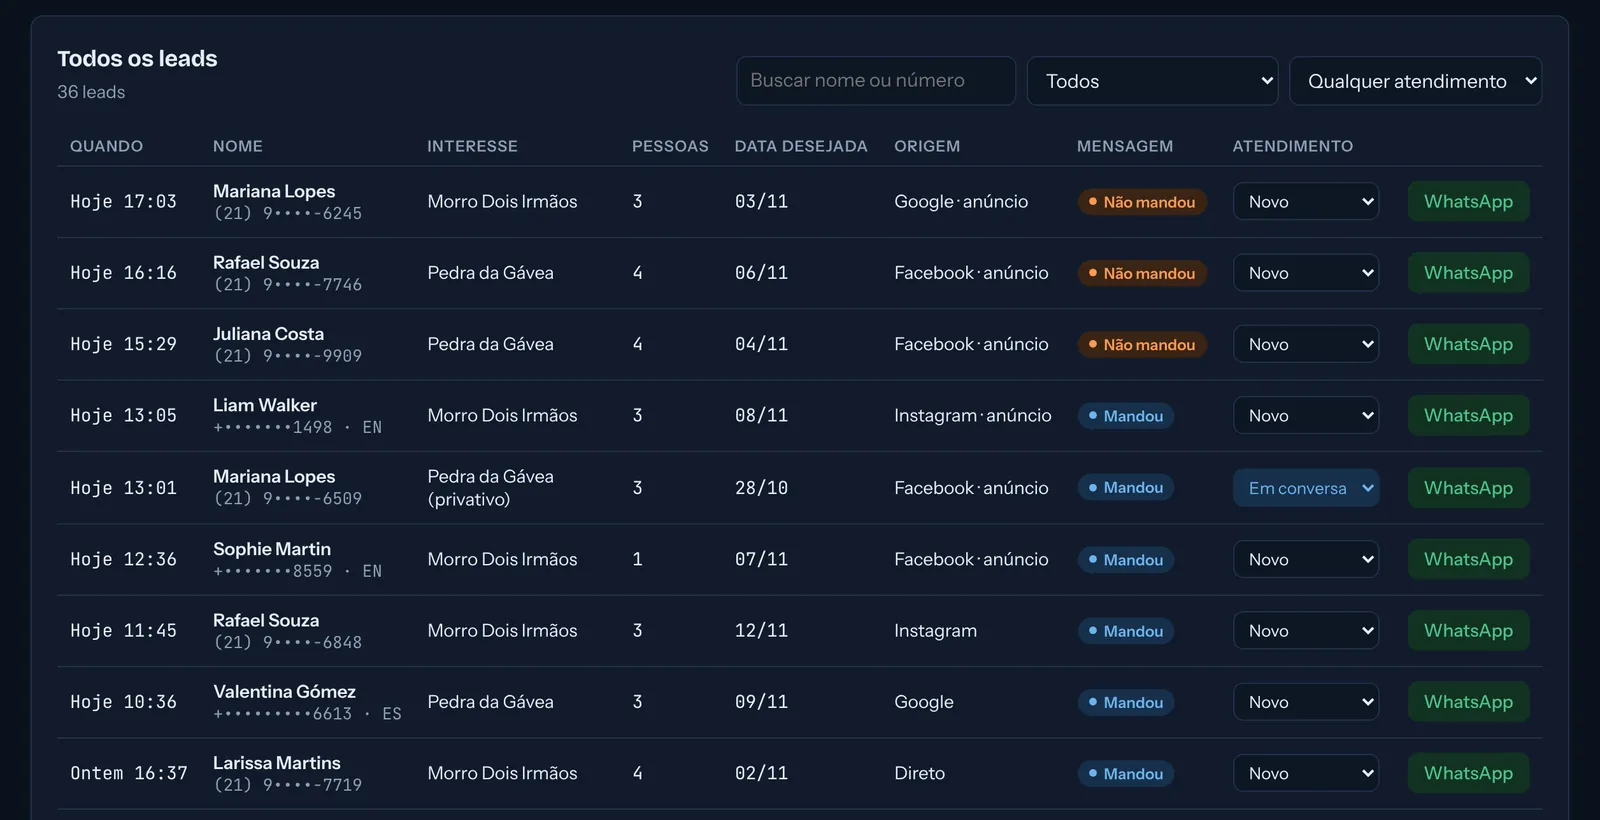
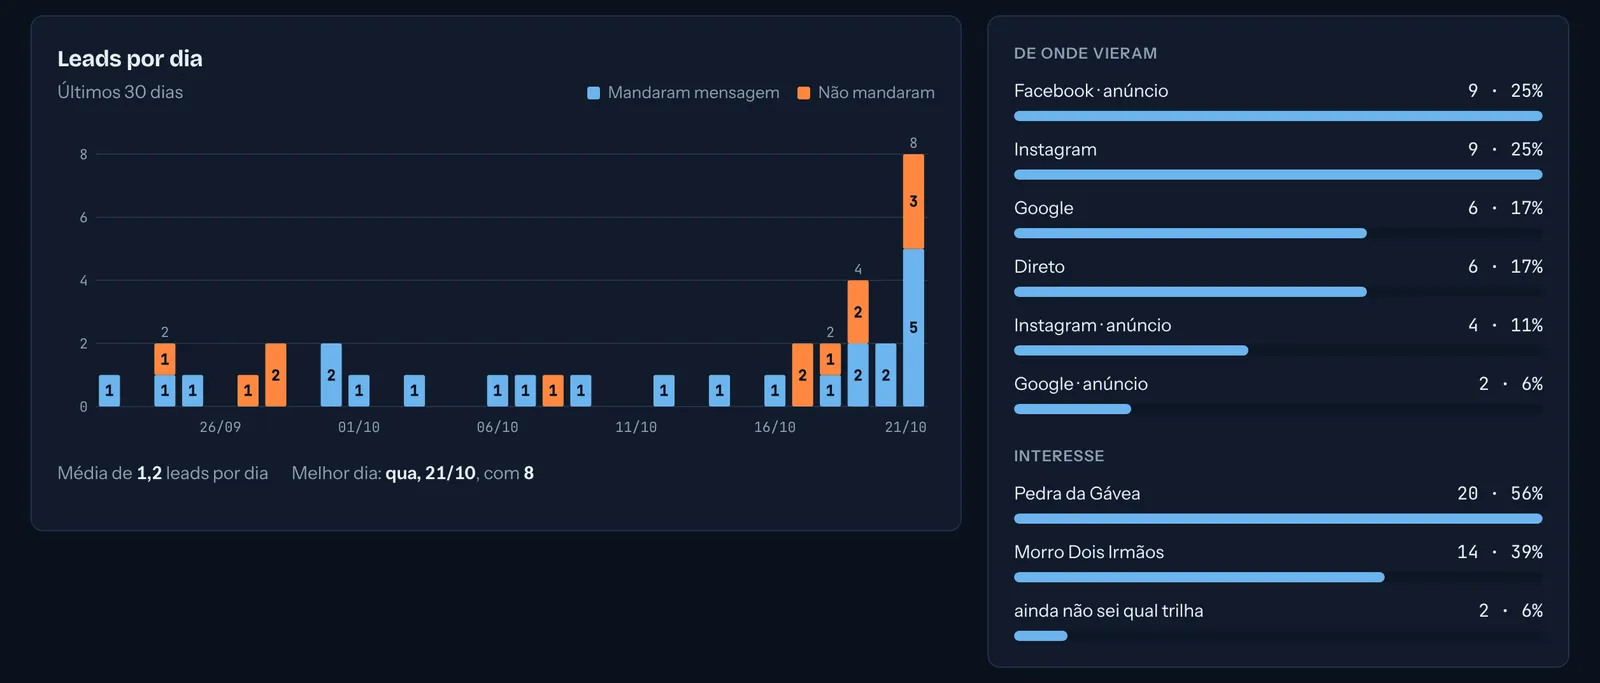
LP: abas do painel trocam sozinhas com barra de progresso, prints de celular; painel: cartões de lead no celular
Claude-Session: https://claude.ai/code/session_01Tz1DYrWsXn1YRVjuSTogv9

diff --git a/index.html b/index.html
@@ -310,12 +310,28 @@ p{margin:0}
 .dash-bar i{width:10px;height:10px;border-radius:50%;background:var(--bg-3)}
 .dash-bar span{margin-left:10px;font-family:var(--f-mono);font-size:12px;color:var(--muted)}
 .dash-frame img{display:block;width:100%;height:auto}
-.dash-tabs{display:flex;gap:4px;padding:8px;border-bottom:1px solid var(--line);overflow-x:auto;scrollbar-width:none}
-.dash-tabs::-webkit-scrollbar{display:none}
-.dash-tabs button{flex:none;font:inherit;font-size:14px;color:var(--muted);background:none;border:0;border-radius:8px;padding:8px 14px;cursor:pointer;white-space:nowrap}
-.dash-tabs button:hover{color:var(--fg)}
-.dash-tabs button[aria-selected="true"]{background:var(--bg-3);color:var(--fg);font-weight:600}
-.dash-frame [role="tabpanel"][hidden]{display:none}
+.dash-tabs{display:grid;grid-template-columns:repeat(3,minmax(0,1fr));gap:6px;padding:8px;border-bottom:1px solid var(--line)}
+.dash-tabs button{position:relative;display:flex;align-items:center;gap:10px;font:inherit;font-size:14.5px;color:var(--muted);background:transparent;border:1px solid var(--line);border-radius:10px;padding:10px 14px 13px;cursor:pointer;text-align:left;overflow:hidden;transition:color .2s,background .2s,border-color .2s}
+.dash-tabs button:hover{color:var(--fg);border-color:var(--muted)}
+.dash-tabs button[aria-selected="true"]{background:var(--bg-3);color:var(--fg);font-weight:600;border-color:var(--violet)}
+.dt-n{flex:none;width:22px;height:22px;border-radius:50%;display:grid;place-items:center;font-family:var(--f-mono);font-size:12px;background:var(--bg);border:1px solid var(--line)}
+.dash-tabs button[aria-selected="true"] .dt-n{background:var(--violet);color:var(--bg);border-color:var(--violet)}
+.dt-bar{position:absolute;left:0;right:0;bottom:0;height:3px;background:transparent}
+.dt-bar i{display:block;height:100%;width:0;background:var(--violet)}
+.dash-tabs button[aria-selected="true"] .dt-bar i{width:100%}
+.dash-frame.auto .dash-tabs button[aria-selected="true"] .dt-bar i{width:0;animation:dtfill var(--dt-time,6s) linear forwards}
+.dash-frame.auto.paused .dash-tabs button[aria-selected="true"] .dt-bar i{animation-play-state:paused}
+@keyframes dtfill{to{width:100%}}
+.dash-stage{position:relative;aspect-ratio:1600/820;background:var(--bg)}
+.dash-panel{position:absolute;inset:0;opacity:0;visibility:hidden;transform:scale(.985);transition:opacity .5s ease,transform .6s cubic-bezier(.2,.8,.2,1),visibility 0s linear .5s}
+.dash-panel.on{opacity:1;visibility:visible;transform:none;transition:opacity .5s ease,transform .6s cubic-bezier(.2,.8,.2,1),visibility 0s}
+.dash-panel img{width:100%;height:auto}
+@media (max-width:640px){
+  .dash-stage{aspect-ratio:700/1515}
+  .dash-tabs{grid-template-columns:1fr 1fr 1fr;gap:4px;padding:6px}
+  .dash-tabs button{flex-direction:column;align-items:center;text-align:center;gap:6px;font-size:12px;padding:8px 4px 11px;line-height:1.2}
+}
+@media (prefers-reduced-motion:reduce){.dash-panel,.dash-panel.on{transition:none;transform:none}}
 
 .dash-shot figcaption{font-family:var(--f-mono);font-size:12px;color:var(--muted)}
 .dash-points{list-style:none;margin:0;padding:0;display:grid;grid-template-columns:repeat(3,minmax(0,1fr));gap:20px 32px}
@@ -747,22 +763,17 @@ html.locked,html.locked body{overflow:hidden}
       <figure class="dash-shot" data-reveal>
         <div class="dash-frame">
           <div class="dash-bar" aria-hidden="true"><i></i><i></i><i></i><span>linxio.com.br/painel</span></div>
-          <div class="dash-tabs" role="tablist" aria-label="Telas do painel">
-            <button type="button" role="tab" id="dt-1" aria-controls="dp-1" aria-selected="true">Quem chamar agora</button>
-            <button type="button" role="tab" id="dt-2" aria-controls="dp-2" aria-selected="false" tabindex="-1">Números e origem</button>
-            <button type="button" role="tab" id="dt-3" aria-controls="dp-3" aria-selected="false" tabindex="-1">Todos os leads</button>
-          </div>
-          <div role="tabpanel" id="dp-1" aria-labelledby="dt-1">
-            <picture>
-              <source media="(max-width:640px)" srcset="/img/foto-02.webp">
-              <img src="/img/foto-03.webp" width="1600" height="731" loading="lazy" alt="Painel com o total de leads do período, quem mandou e quem não mandou mensagem, reservas fechadas e a lista de quem chamar agora no WhatsApp">
-            </picture>
-          </div>
-          <div role="tabpanel" id="dp-2" aria-labelledby="dt-2" hidden>
-            <img src="/img/foto-04.webp" width="1600" height="683" loading="lazy" alt="Gráfico de leads por dia com o total escrito em cada barra, e listas de onde vieram os contatos e do interesse de cada um">
-          </div>
-          <div role="tabpanel" id="dp-3" aria-labelledby="dt-3" hidden>
-            <img src="/img/foto-05.webp" width="1600" height="820" loading="lazy" alt="Tabela com todos os leads: quando chegou, nome, interesse, data desejada, origem, se mandou mensagem e o status do atendimento">
+          <div class="dash-tabs" role="tablist" aria-label="Telas do painel"><button type="button" role="tab" id="dt-1" aria-controls="dp-1" aria-selected="true"><span class="dt-n">1</span>Quem chamar agora<span class="dt-bar" aria-hidden="true"><i></i></span></button><button type="button" role="tab" id="dt-2" aria-controls="dp-2" aria-selected="false" tabindex="-1"><span class="dt-n">2</span>Números e origem<span class="dt-bar" aria-hidden="true"><i></i></span></button><button type="button" role="tab" id="dt-3" aria-controls="dp-3" aria-selected="false" tabindex="-1"><span class="dt-n">3</span>Todos os leads<span class="dt-bar" aria-hidden="true"><i></i></span></button></div>
+          <div class="dash-stage">
+            <div class="dash-panel on" role="tabpanel" id="dp-1" aria-labelledby="dt-1">
+              <picture><source media="(max-width:640px)" srcset="/img/foto-02.webp"><img src="/img/foto-03.webp" width="1600" height="731" loading="lazy" alt="Painel com o total de leads do período, quem mandou e quem não mandou mensagem, reservas fechadas e a lista de quem chamar agora no WhatsApp"></picture>
+            </div>
+            <div class="dash-panel" role="tabpanel" id="dp-2" aria-labelledby="dt-2" aria-hidden="true">
+              <picture><source media="(max-width:640px)" srcset="/img/foto-04.webp"><img src="/img/foto-05.webp" width="1600" height="683" loading="lazy" alt="Gráfico de leads por dia com a quantidade escrita em cada barra, e listas de onde vieram os contatos e do interesse de cada um"></picture>
+            </div>
+            <div class="dash-panel" role="tabpanel" id="dp-3" aria-labelledby="dt-3" aria-hidden="true">
+              <picture><source media="(max-width:640px)" srcset="/img/foto-06.webp"><img src="/img/foto-07.webp" width="1600" height="820" loading="lazy" alt="Lista de todos os leads com quando chegou, interesse, data desejada, origem, se mandou mensagem e o status do atendimento"></picture>
+            </div>
           </div>
         </div>
         <figcaption>Dados ilustrativos. Faz parte do plano mensal.</figcaption>
@@ -991,14 +1002,29 @@ html.locked,html.locked body{overflow:hidden}
   lm.addEventListener('click', function(e){ if(e.target===lm) closeLead(); });
   lm.addEventListener('keydown', function(e){ if(e.key==='Escape') closeLead(); });
   if(location.hash==='#contato') setTimeout(openLead, 300);
-  /* ===== abas das telas do painel ===== */
+  /* ===== abas das telas do painel: trocam sozinhas até a pessoa clicar ===== */
   (function(){
-    var tabs=[].slice.call(document.querySelectorAll('.dash-tabs [role="tab"]'));
-    function sel(t){ tabs.forEach(function(x){ var on=x===t; x.setAttribute('aria-selected',on); x.tabIndex=on?0:-1; document.getElementById(x.getAttribute('aria-controls')).hidden=!on; }); }
+    var frame=document.querySelector('.dash-frame'); if(!frame) return;
+    var tabs=[].slice.call(frame.querySelectorAll('[role="tab"]')), cur=0, timer=null, TIME=6000, manual=false, visible=false;
+    var reduceM=window.matchMedia('(prefers-reduced-motion: reduce)').matches;
+    function sel(i){
+      cur=(i+tabs.length)%tabs.length;
+      tabs.forEach(function(t,j){ var on=j===cur, p=document.getElementById(t.getAttribute('aria-controls'));
+        t.setAttribute('aria-selected',on); t.tabIndex=on?0:-1; p.classList.toggle('on',on); p.setAttribute('aria-hidden',!on);
+        var bar=t.querySelector('.dt-bar i'); if(bar){ bar.style.animation='none'; void bar.offsetWidth; bar.style.animation=''; } });
+    }
+    function stop(){ clearTimeout(timer); timer=null; }
+    function loop(){ stop(); if(manual||!visible||reduceM||frame.classList.contains('paused')) return; timer=setTimeout(function(){ sel(cur+1); loop(); },TIME); }
+    if(!reduceM){ frame.classList.add('auto'); frame.style.setProperty('--dt-time',TIME+'ms'); }
     tabs.forEach(function(t,i){
-      t.addEventListener('click',function(){ sel(t); });
-      t.addEventListener('keydown',function(e){ var d=e.key==='ArrowRight'?1:e.key==='ArrowLeft'?-1:0; if(!d) return; e.preventDefault(); var n=tabs[(i+d+tabs.length)%tabs.length]; sel(n); n.focus(); });
+      t.addEventListener('click',function(){ manual=true; frame.classList.remove('auto'); stop(); sel(i); });
+      t.addEventListener('keydown',function(e){ var d=e.key==='ArrowRight'?1:e.key==='ArrowLeft'?-1:0; if(!d) return; e.preventDefault(); manual=true; frame.classList.remove('auto'); stop(); sel(i+d); tabs[cur].focus(); });
     });
+    frame.addEventListener('mouseenter',function(){ frame.classList.add('paused'); stop(); });
+    frame.addEventListener('mouseleave',function(){ frame.classList.remove('paused'); sel(cur); loop(); });
+    if('IntersectionObserver' in window){
+      new IntersectionObserver(function(es){ visible=es[0].isIntersecting; if(visible){ sel(cur); loop(); } else stop(); },{threshold:.4}).observe(frame);
+    } else { visible=true; loop(); }
   })();
 
 

diff --git a/painel/index.html b/painel/index.html
@@ -168,12 +168,28 @@ td.c-src,td.c-when{white-space:nowrap}
   .table-wrap{margin:0;padding:0;overflow:visible}
   table,thead,tbody,tr,td{display:block}
   thead{display:none}
-  tr{border-top:1px solid var(--line);padding:12px 0;display:grid;grid-template-columns:minmax(0,1fr) auto;gap:6px 12px}
+  /* cada lead vira um cartão: nome, uma linha de detalhes, origem e os botões */
+  tr{border-top:1px solid var(--line);padding:14px 0;display:flex;flex-wrap:wrap;align-items:center;gap:4px 0}
   tr:first-child{border-top:0}
   td{border:0;padding:0}
-  td.nm{grid-column:1/-1}
-  td.c-when,td.c-int,td.c-src{font-size:13px;color:var(--muted)}
-  td[data-l]::before{content:attr(data-l) ": ";color:var(--muted)}
+  td.nm{order:1;flex:1 1 auto;min-width:0}
+  td.c-when{order:2;flex:none;font-size:12.5px;color:var(--muted);align-self:flex-start;padding-top:2px}
+  td.c-int,td.c-pes,td.c-data{order:3;flex:none;font-size:13.5px;color:var(--muted);font-family:var(--f-body)}
+  td.c-int{flex-basis:100%;margin-top:4px;color:var(--ink)}
+  td.c-pes:not(:empty)::before{content:"";}
+  td.c-pes:not(:empty)::after{content:" " attr(data-l);}
+  td.c-data:not(:empty)::before{content:"\00a0·\00a0" attr(data-l) " "}
+  td.c-pes:empty+td.c-data:not(:empty)::before{content:attr(data-l) " "}
+  td.c-src{order:4;flex-basis:100%;font-size:13.5px;color:var(--muted)}
+  td.c-msg{order:2;flex:none;margin-left:10px;align-self:flex-start}
+  td.c-when{order:4!important;flex-basis:100%;padding-top:0!important;font-size:12.5px}
+  td.c-st{order:6;margin-top:10px;margin-right:8px;flex:1 1 auto}
+  td.c-wa{order:7;margin-top:10px}
+  td.c-st .status{width:100%}
+  td.c-wa .btn-wa{padding:6px 10px}
+  .filters{width:100%}
+  .filters input{flex:1 1 100%;width:auto}
+  .filters select{flex:1 1 40%}
 }
 @media (prefers-reduced-motion:reduce){*{transition:none!important;animation:none!important}}
 </style>
@@ -253,7 +269,7 @@ td.c-src,td.c-when{white-space:nowrap}
         <div class="filters">
           <input id="f-q" type="search" placeholder="Buscar nome ou número" aria-label="Buscar">
           <select id="f-etapa" aria-label="Filtrar por mensagem"><option value="">Todos</option><option value="abriu_whatsapp">Mandaram mensagem</option><option value="so_preencheu">Não mandaram</option></select>
-          <select id="f-status" aria-label="Filtrar por atendimento"><option value="">Qualquer atendimento</option><option value="novo">Novo</option><option value="em_conversa">Em conversa</option><option value="fechou">Fechou</option><option value="perdeu">Perdeu</option></select>
+          <select id="f-status" aria-label="Filtrar por atendimento"><option value="">Atendimento</option><option value="novo">Novo</option><option value="em_conversa">Em conversa</option><option value="fechou">Fechou</option><option value="perdeu">Perdeu</option></select>
         </div>
       </div>
       <div class="table-wrap">
@@ -397,7 +413,7 @@ td.c-src,td.c-when{white-space:nowrap}
       if(fit&&x.b&&y(x.a)-y(t)>=15) s+='<text class="seg" x="'+(cx+w/2)+'" y="'+((y(x.a)+y(t))/2+4)+'" text-anchor="middle" pointer-events="none">'+x.b+'</text>';
       if(t&&x.a&&x.b) s+='<text class="tot" x="'+(cx+w/2)+'" y="'+(y(t)-5)+'" text-anchor="middle" pointer-events="none">'+t+'</text>';
       else if(t&&(!fit||y(0)-y(t)<15)) s+='<text class="tot" x="'+(cx+w/2)+'" y="'+(y(t)-5)+'" text-anchor="middle" pointer-events="none">'+t+'</text>';
-      if((B.length-1-i)%every===0) s+='<text x="'+(cx+w/2)+'" y="'+(H-10)+'" text-anchor="middle" pointer-events="none">'+x.start.slice(8,10)+'/'+x.start.slice(5,7)+'</text>';
+      if((B.length-1-i)%every===0){ var lx=Math.min(cx+w/2,W-pr-17); s+='<text x="'+lx+'" y="'+(H-10)+'" text-anchor="middle" pointer-events="none">'+x.start.slice(8,10)+'/'+x.start.slice(5,7)+'</text>'; }
     });
     chartBuckets=B;
     $('chart').setAttribute('viewBox','0 0 '+W+' '+H); $('chart').innerHTML=s; $('tip').hidden=true;
@@ -456,12 +472,12 @@ td.c-src,td.c-when{white-space:nowrap}
       return '<tr><td class="c-when num">'+esc(when(l.criado_em))+'</td>'+
         '<td class="nm"><b>'+esc(l.nome||'Sem nome')+'</b><span class="num">'+esc(phone(l.whatsapp))+(l.idioma&&l.idioma!=='pt'?' · '+l.idioma.toUpperCase():'')+'</span></td>'+
         '<td class="c-int">'+esc(l.interesse||'')+(l.extra&&l.extra.site?'<br><span style="color:var(--muted);font-size:13px">'+esc(l.extra.site)+'</span>':'')+'</td>'+
-        '<td class="num" data-l="Pessoas">'+(l.pessoas||'')+'</td>'+
-        '<td class="num" data-l="Data">'+esc(dateBR(l.data_desejada))+'</td>'+
+        '<td class="num c-pes" data-l="'+(l.pessoas?(l.pessoas==1?'pessoa':'pessoas'):'')+'">'+(l.pessoas||'')+'</td>'+
+        '<td class="num c-data" data-l="'+(l.data_desejada?'para':'')+'">'+esc(dateBR(l.data_desejada))+'</td>'+
         '<td class="c-src">'+esc(origin(l))+'</td>'+
-        '<td>'+(l.etapa==='abriu_whatsapp'?'<span class="chip sent">Mandou</span>':'<span class="chip miss">Não mandou</span>')+'</td>'+
-        '<td><select class="status" data-id="'+l.id+'" data-v="'+l.status+'" aria-label="Atendimento de '+esc(l.nome||'lead')+'">'+opts+'</select></td>'+
-        '<td><a class="btn btn-wa" href="'+esc(waLink(l))+'" target="_blank" rel="noopener">WhatsApp</a></td></tr>';
+        '<td class="c-msg">'+(l.etapa==='abriu_whatsapp'?'<span class="chip sent">Mandou</span>':'<span class="chip miss">Não mandou</span>')+'</td>'+
+        '<td class="c-st"><select class="status" data-id="'+l.id+'" data-v="'+l.status+'" aria-label="Atendimento de '+esc(l.nome||'lead')+'">'+opts+'</select></td>'+
+        '<td class="c-wa"><a class="btn btn-wa" href="'+esc(waLink(l))+'" target="_blank" rel="noopener">WhatsApp</a></td></tr>';
     }).join('')||'<tr><td colspan="9" class="empty">Nenhum lead com esses filtros.</td></tr>';
     $('more').hidden=rows.length<=state.shown;
   }
